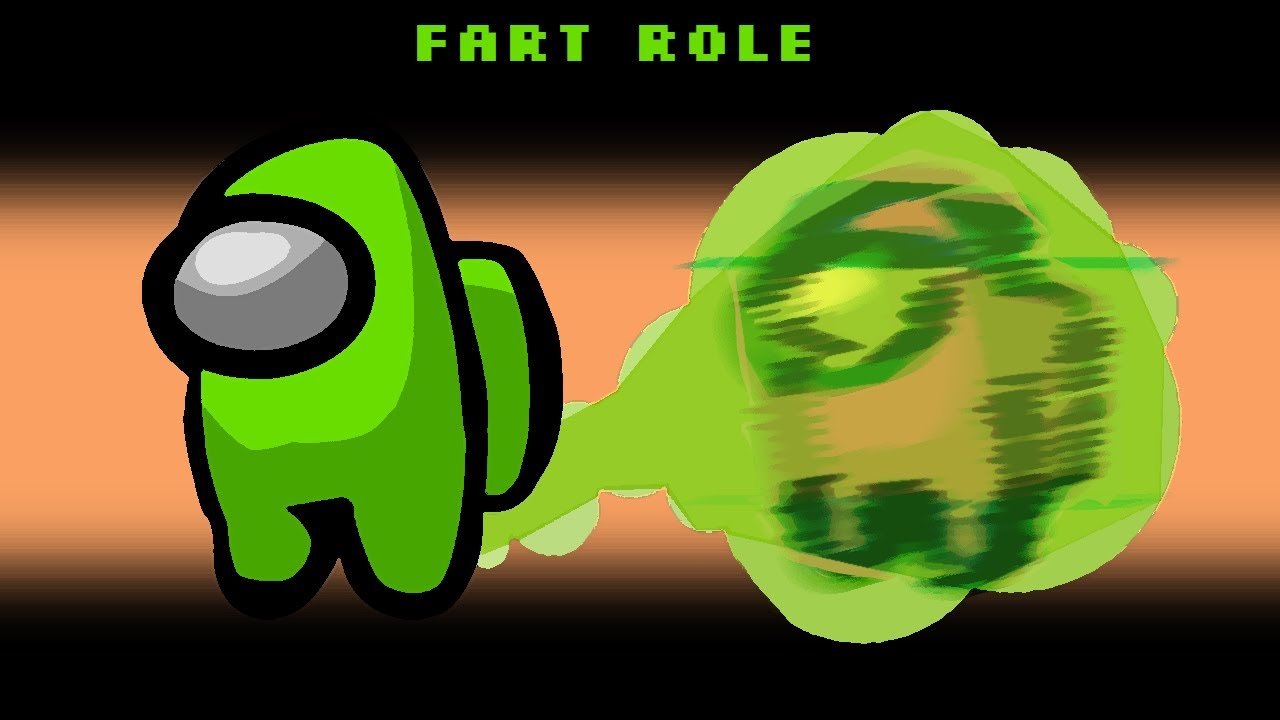
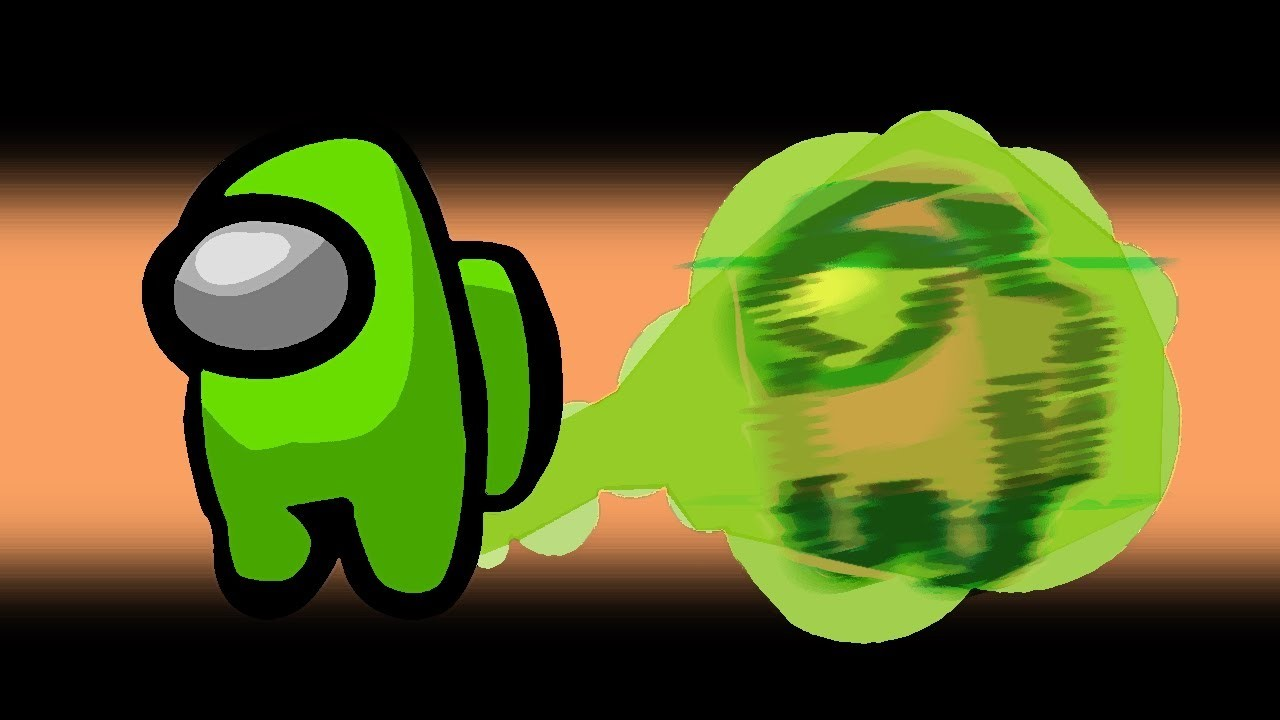
changed view

Changed region(s): [[0.5, 0.0306, 0.6562, 0.0917], [0.3125, 0.0306, 0.4688, 0.0917]]

diff --git a/style.css b/style.css
@@ -1,39 +1,50 @@
 topbar {
   position:absolute;
-  top: 0px;
+  top: 0%;
   right: 0px;
   width: 100%;
-  height: 5%;
-  padding-top: 2%;
-  padding-bottom: 2%;
-  background-color: #000000;
+  height: 14vw;
+  padding-top: 0%;
+  padding-bottom: 0%;
+  background-color: #00000000;
+  background-image: url("fart-shart.png");
+  background-size: contain;
+  background-repeat: no-repeat;
   color: #6bcd0a;
   font-size: 3.5vw;
   font-family: Arial, Helvetica, sans-serif;
   font-weight: 900;
   text-align: center;
+  background-position: center top;
 }
 
 .redirectbutton {
   font-family: Arial, Helvetica, sans-serif;
   background-color: #107c0e ;
   color: #fff;
-  width: 25%;
-  padding-top: 1%;
-  padding-bottom: 1%;
+  width: 25vw;
+  padding-top: 1vw;
+  padding-bottom: 1vw;
   font-weight: 750;
   font-size: 2.5vw;
+  border-radius: 3vw 3vw 3vw 3vw;
+  border: 0.2vw solid white;
+}
+
+.redirectbutton::hover {
+  width: 25.2vw;
+  background-color: #085607
 }
 
 #fartsmella {
   position: absolute;
-  top: 130px;
-  right: 20%;
+  top: 17vw;
+  right: 37.5vw;
 }
 #fartboard {
   position: absolute;
-  top: 130px;
-  left: 20%;
+  top: 26vw;
+  left: 37.5vw;
 }
 body {
   background-image: url("fart mongus.jpg");

diff --git a/index.html b/index.html
@@ -1,4 +1,7 @@
 <!DOCTYPE html>
+
+<!--**MAKE SURE YOU PULL FROM GITHUB BEFORE EDITING**-->
+
 <html>
   <head>
     <meta property="og:title" content="Farts n' Sharts!" />
@@ -16,7 +19,7 @@
   </head>
 
   <body>
-    <topbar>FART-SHART! THE MULTI-PURPOSE FART WEBSITE</topbar>
+    <topbar></topbar>
 
     <button class="redirectbutton" id="fartboard" onclick="fartboard()">Fart Soundboard</button>
     <button class="redirectbutton" id="fartsmella" onclick="fartsmella()">Fart Smella</button>
